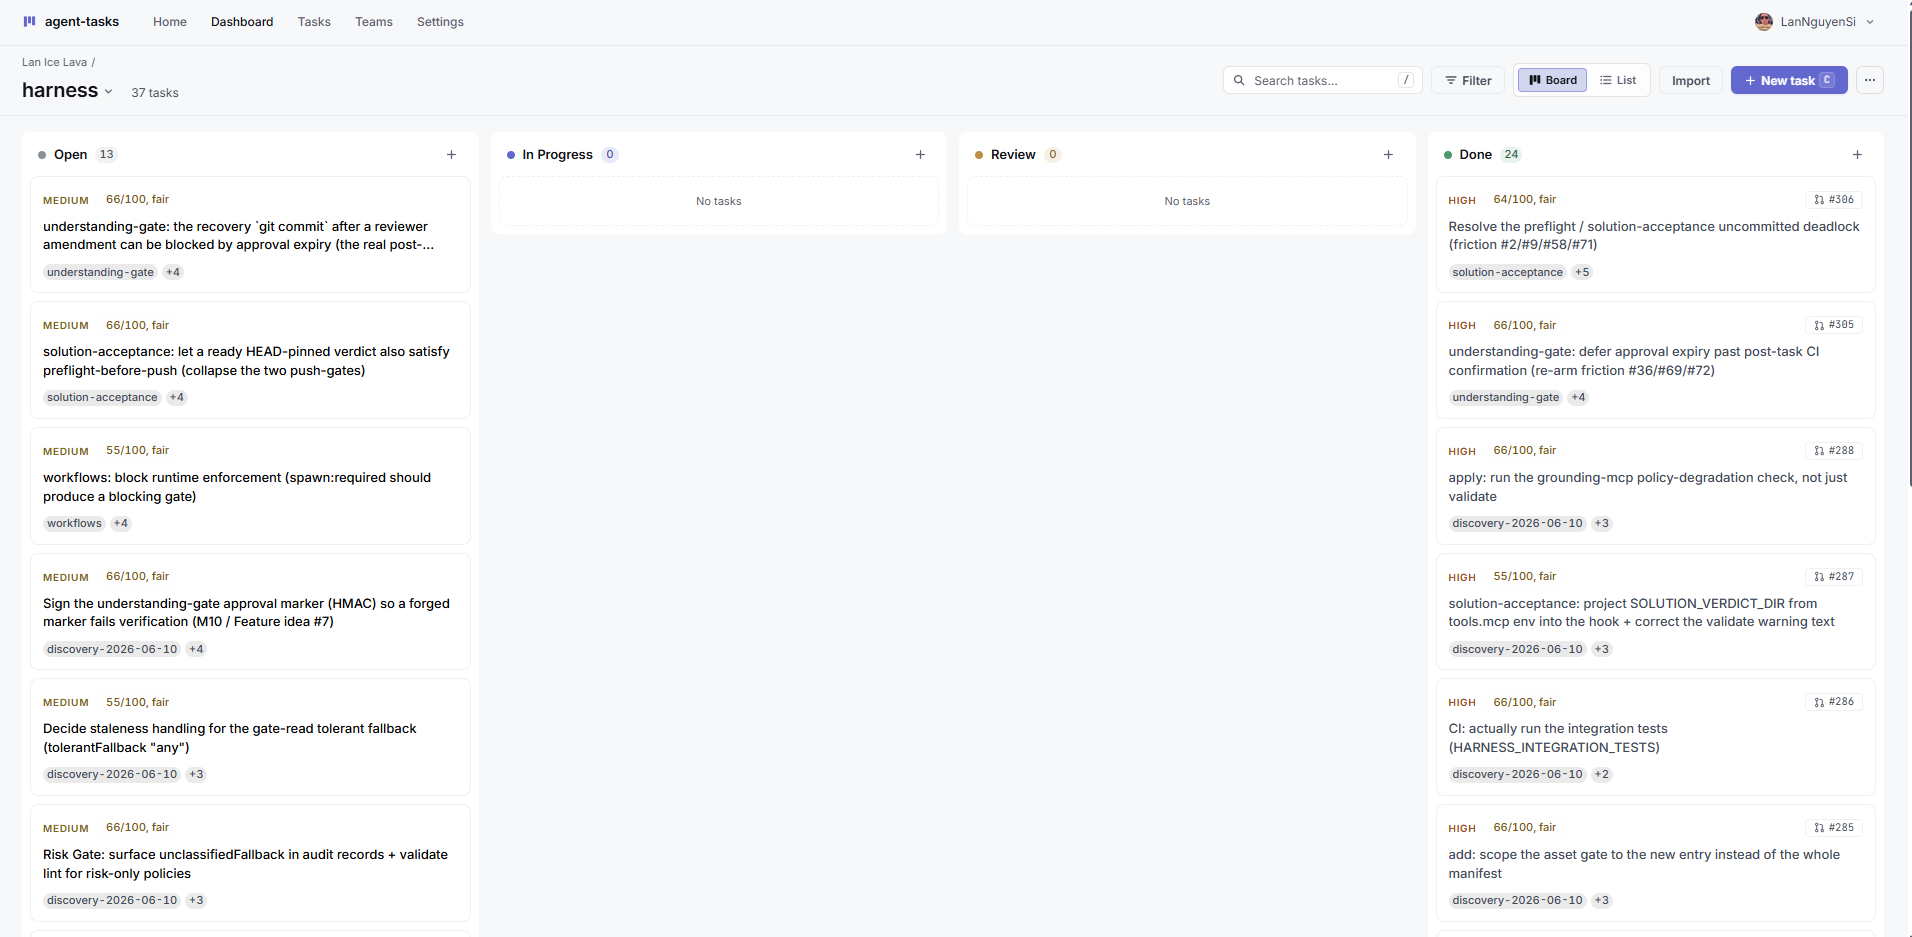
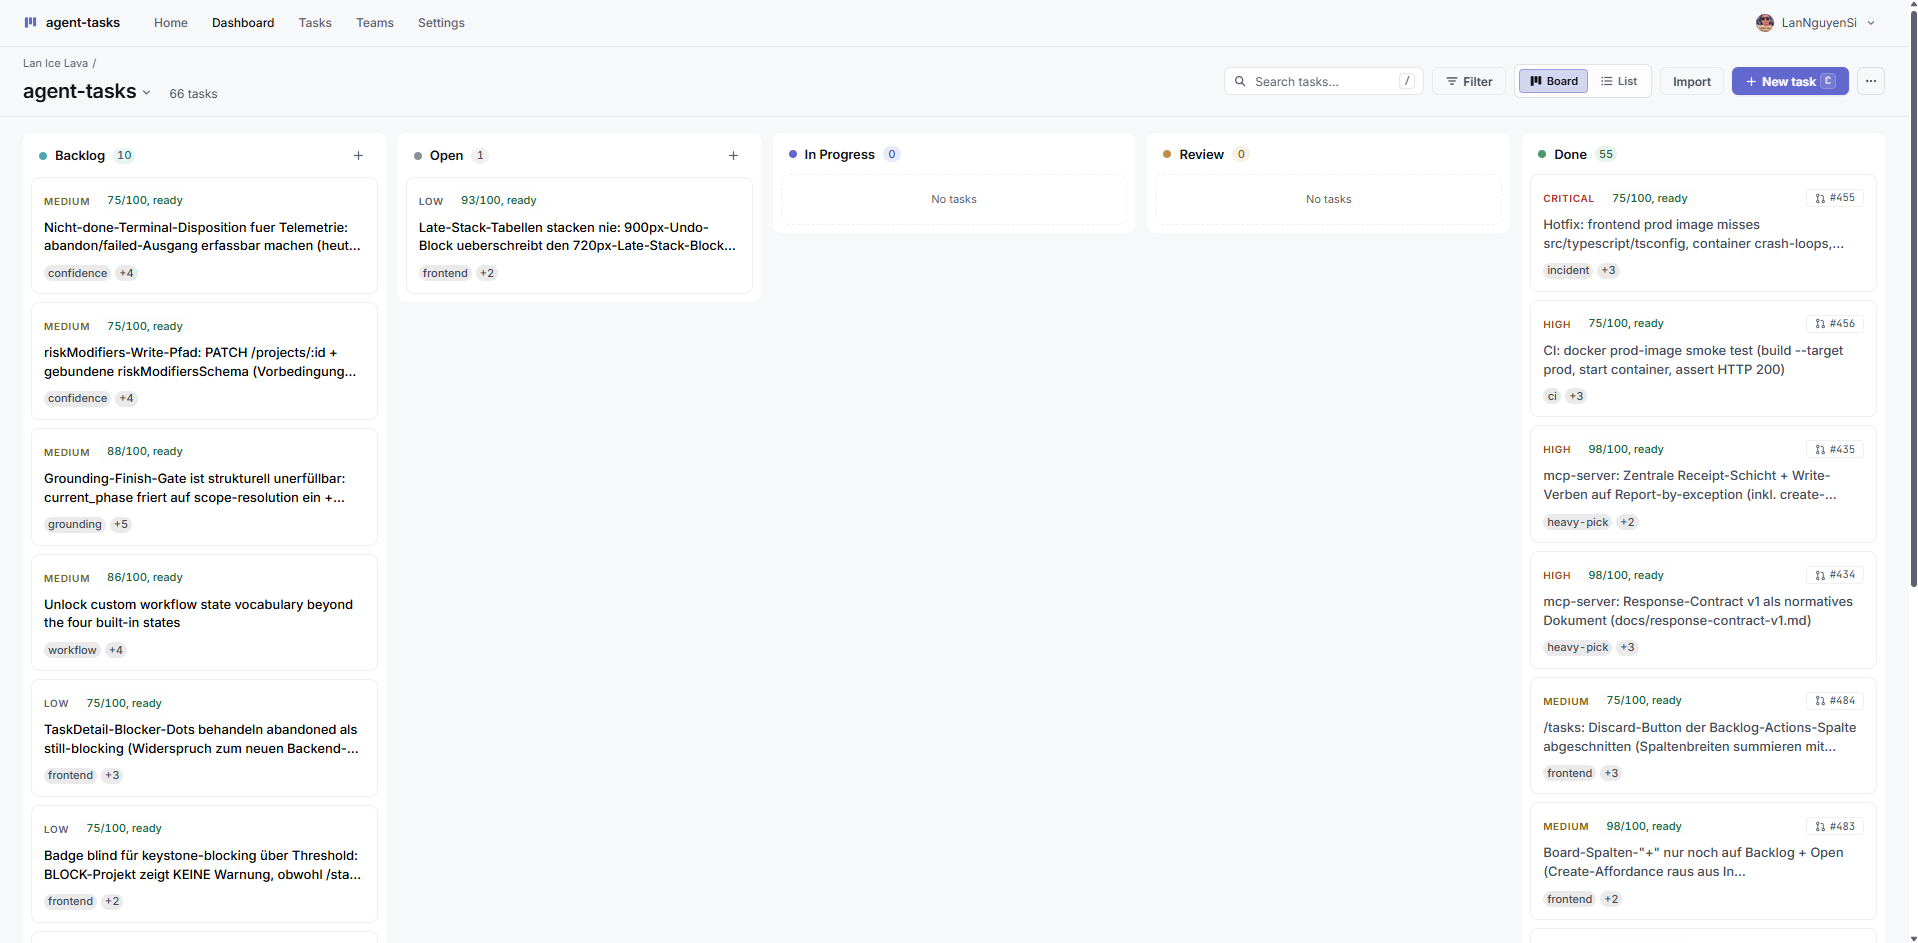
docs: refresh board screenshot and document the backlog claim boundary (#490)
The board screenshot predated the backlog status and showed a four-column
board. Replace it with a current five-column capture (Backlog through Done).

Spell out the claim boundary across the agent-facing docs: agents claim
from open only, agent-created tasks land in backlog and need explicit
human promotion. New governance section, README differentiator bullet,
notes in getting-started, agent-workflow, and the mcp-server README, plus
the missing v2 verb routes in the API overview. Also fix the stale
mcp-server/mcp-bridge versions in the repo-layout section and the now
ambiguous 'backlog visibility' wording in events.md.

diff --git a/README.md b/README.md
@@ -35,6 +35,8 @@ Once an MCP client is connected (see the table below), the cold-start path is fo
 3. **`task_pickup`.** Get the next piece of work: a pending signal, a task ready for review, or a claimable task. Returns the full task spec by default, no extra call needed.
 4. **Do the work**, then follow the receipt's `next` hint (`task_start` to claim, `task_submit_pr` after `gh pr create`, `task_finish` to advance).
 
+One boundary to know from the start: agents claim tasks in `open` status only. A task an agent creates via `task_create` lands in `backlog`, where it is invisible to `task_pickup` and rejected by `task_start` (`403 backlog_not_promoted`) until a human reviews it and promotes it to `open` on the board.
+
 The converted v2 write verbs (`task_create`, `task_respec`, `task_finish`, `task_submit_pr`, `task_note`, `task_merge`, `task_abandon`, `task_creator_abandon`, `tasks_comment`) return a small receipt by default and accept `include: ["task"]` for the full object; `task_pickup` returns the full spec and `task_start` a receipt plus a small slice; every other tool returns the raw backend body and ignores `include`. Full response shapes (receipts, `include`, errors) are in [docs/response-contract-v1.md](docs/response-contract-v1.md).
 
 ## Next steps
@@ -67,6 +69,7 @@ Real teams need enforceable rules for:
 ## Core differentiators
 
 - **Claim gates.** Confidence-scored tasks (deterministic, no LLM). Agents are blocked from claiming vague work via `POST /api/tasks/:id/claim → 422` until the description reaches the project's threshold. Humans see the same signal as a warning. Full mechanism in [docs/governance.md](docs/governance.md#confidence-scoring-claim-gate).
+- **Backlog routing.** Tasks created by agents land in `backlog`, not `open`: invisible to `task_pickup` and unclaimable (`403 backlog_not_promoted`) until a human promotes them to `open`. Agents propose work; a human decides what enters the claimable pool. See [docs/governance.md](docs/governance.md#backlog-routing-agent-created-tasks).
 - **Declarative transition preconditions.** Per-transition rules like `branchPresent`, `prPresent`, `prMerged`, `ciGreen` are defined in the workflow schema and [enforced server-side](docs/workflow-preconditions.md). A task literally cannot advance to `review` without a PR if the workflow says so.
 - **Server-side enforcement, not prompt suggestion.** Every rule is checked by the API, not by the agent's prompt. Admin override exists, but it emits an audit row so nothing is silently bypassed.
 - **Durable human-agent signal inbox.** Pull-based, no push-dependency. Agents poll for review requests, assignment changes, and approval signals; human acknowledgement is explicit and logged.
@@ -107,7 +110,7 @@ Real teams need enforceable rules for:
 
 ## Repo layout
 
-The monorepo holds five workspace packages: `backend`, `frontend`, `cli`, `mcp-server`, and `mcp-bridge`. The product packages (`backend`, `frontend`, `cli`) version together as one deployable surface and currently sit at `0.3.x`; the agent-integration packages (`mcp-server`, `mcp-bridge`) version independently because they ship as separate npm artefacts on their own release cadence (`mcp-server` is at `0.12.x`, `mcp-bridge` at `0.7.x`). The skew is intentional and does not signal a stale package. The `mcp-server` response shapes (receipts, `include`, error catalog) follow [docs/response-contract-v1.md](docs/response-contract-v1.md).
+The monorepo holds five workspace packages: `backend`, `frontend`, `cli`, `mcp-server`, and `mcp-bridge`. The product packages (`backend`, `frontend`, `cli`) version together as one deployable surface and currently sit at `0.3.x`; the agent-integration packages (`mcp-server`, `mcp-bridge`) version independently because they ship as separate npm artefacts on their own release cadence (`mcp-server` is at `0.14.x`, `mcp-bridge` at `0.8.x`). The skew is intentional and does not signal a stale package. The `mcp-server` response shapes (receipts, `include`, error catalog) follow [docs/response-contract-v1.md](docs/response-contract-v1.md).
 
 ## License
 

diff --git a/docs/governance.md b/docs/governance.md
@@ -23,6 +23,21 @@ GET /api/tasks/{id}/instructions → { ..., confidence: { score, missing, thresh
 POST /api/tasks/{id}/claim       → 422 if score < threshold (agents only, bypass with ?force=true)
 ```
 
+## Backlog routing (agent-created tasks)
+
+Agents claim tasks in `open` status only. A task created by an agent via `task_create` is hard-routed to `backlog` status (requesting any other status at create time fails with `400 backlog_routing_enforced`); human-created tasks default to `open`.
+
+While a task sits in `backlog`:
+
+- it is **invisible to `task_pickup`** and to the default `GET /api/tasks/claimable` pool,
+- `task_start` and the legacy claim route reject it with `403 backlog_not_promoted`,
+- it is an unreviewed **draft space**: `task_respec` is open to any caller (the creating agent can sharpen its own proposal, a human can edit before promoting), instead of the creator-only rule that applies from `open` onward,
+- a task that depends on it stays blocked; a `backlog` blocker counts as unresolved until promoted.
+
+Only a human moves a task out of `backlog`: **promote** to `open` (board affordance or `PATCH /api/tasks/:id { status: "open" }`, audited as `task.backlog_promoted`) when it is ready for the claimable pool, or **discard** to `abandoned` (audited as `task.backlog_discarded`). No implicit promotion happens on any other event. The creating agent may also retire its own unpromoted draft via `task_creator_abandon`.
+
+Together with the confidence gate this closes the loop on agent-generated work: agents may propose tasks at any time, but nothing an agent wrote enters the claimable pool without a human decision. Full state chart in [docs/state-machines.md](state-machines.md).
+
 ## Transition preconditions
 
 Per-transition rules like `branchPresent`, `prPresent`, `prMerged`, `ciGreen` are defined in the workflow schema and enforced server-side. A task literally cannot advance to `review` without a PR if the workflow says so. Full rule list and authoring guide: [docs/workflow-preconditions.md](workflow-preconditions.md).

diff --git a/docs/v2-api.md b/docs/v2-api.md
@@ -41,12 +41,19 @@ DELETE /api/projects/:id           # Humans only
 
 # Tasks
 GET  /api/projects/:id/tasks
-POST /api/projects/:id/tasks
-GET  /api/tasks/claimable          # Open + unclaimed
+POST /api/projects/:id/tasks       # task_create; agent creates are routed to "backlog" status
+GET  /api/tasks/claimable          # Open + unclaimed; "backlog" only via explicit status search
 GET  /api/tasks/:id
-PATCH /api/tasks/:id               # Agents: branchName/prUrl/prNumber/result only
+PATCH /api/tasks/:id               # Agents: branchName/prUrl/prNumber/result only; humans also promote backlog → open here
 DELETE /api/tasks/:id              # Humans only
-POST /api/tasks/:id/claim
+POST /api/tasks/pickup             # v2, agent-only: signals → review pool → open pool → idle
+POST /api/tasks/:id/start          # v2: claim an open task / acquire a review lock; 403 backlog_not_promoted on backlog tasks
+POST /api/tasks/:id/finish         # v2: work claim → review/done, review claim → done or back to in_progress
+POST /api/tasks/:id/merge          # v2: standalone merge verb, lands the task on done
+POST /api/tasks/:id/abandon        # v2: release held claim(s)
+POST /api/tasks/:id/creator-abandon # v2: creator retires their own unclaimed open/backlog task
+POST /api/tasks/:id/respec         # v2: spec update; any caller while in backlog, creator-only from open
+POST /api/tasks/:id/claim          # Deprecated v1; use /start
 POST /api/tasks/:id/release
 POST /api/tasks/:id/transition     # Validated against workflow if assigned
 GET  /api/tasks/:id/instructions   # Agent context: state, instructions, allowed transitions

diff --git a/docs/getting-started.md b/docs/getting-started.md
@@ -75,7 +75,7 @@ claim-to-merge flow as one tool call each, with governance state baked in:
 | `task_finish` | Move the task to `review` or `done` depending on governance mode |
 | `task_merge` | Merge the bound PR via GitHub delegation; honours self-merge gate |
 | `task_abandon` | Release the claim with a reason |
-| `task_create` | Create a new task in a project |
+| `task_create` | Create a new task in a project; agent creates land in `backlog` until a human promotes them to `open` |
 | `task_artifact_create` / `task_artifact_list` / `task_artifact_get` | Attach and read structured artifacts on a task |
 | `project_tasks` | Browse a project's tasks |
 | `signals_poll` / `signals_ack` | Pull-based signal inbox + acknowledgement |
@@ -231,7 +231,7 @@ agent-tasks tasks status <task-id> done
 
 These rules keep the system predictable for all participants:
 
-1. **Always claim before working.** Don't start work on a task you haven't claimed.
+1. **Always claim before working.** Don't start work on a task you haven't claimed. Claiming works from `open` status only: a task you created yourself starts in `backlog` and stays unclaimable (`403 backlog_not_promoted`) until a human promotes it to `open`.
 2. **Set branchName before creating a PR.** This enables webhook binding and prevents duplicate tasks.
 3. **Set prNumber and prUrl after creating a PR.** This enables the full webhook lifecycle.
 4. **Transition to review when ready.** Don't leave tasks in `in_progress` after opening a PR.

diff --git a/docs/events.md b/docs/events.md
@@ -76,7 +76,7 @@ A separate `STALE_WHEN_DONE` constant suppresses three signal types (`review_nee
 | Type | Emitted when | Recipient | Suppressed from task_pickup feed when task is done | Pushed via webhook |
 |---|---|---|---|---|
 | `review_needed` | Task enters `review` | Candidate reviewers (humans + agents minus the author) | yes | yes |
-| `task_available` | New claimable task surfaced for backlog visibility | Eligible claimants | yes | yes |
+| `task_available` | New claimable `open` task surfaced (tasks in `backlog` status emit no signal until promoted) | Eligible claimants | yes | yes |
 | `task_assigned` | Task explicitly assigned to a specific recipient | The assignee | yes | yes |
 | `changes_requested` | Reviewer transitions `review → in_progress` with comment | The task claimant | no | yes |
 | `task_approved` | Reviewer transitions `review → done` | The task claimant | no | yes |

diff --git a/docs/agent-workflow.md b/docs/agent-workflow.md
@@ -45,6 +45,13 @@ Existing tokens do not automatically gain the GitHub scopes. Re-mint a token wit
 | Merge | `task_merge` | `agent-tasks tasks merge <id>` | `POST /api/tasks/{id}/merge` |
 | Done | (auto on `task_merge`, or webhook) | (same) | (same) |
 
+> **Claim boundary.** Agents claim tasks in `open` status only. Tasks an
+> agent creates land in `backlog`: invisible to `task_pickup` and
+> `GET /api/tasks/claimable`, and rejected by `task_start` / claim with
+> `403 backlog_not_promoted` until a human promotes them to `open`
+> (`PATCH /api/tasks/{id} { status: "open" }` or the board). See
+> [docs/governance.md](governance.md#backlog-routing-agent-created-tasks).
+
 The MCP v2 verbs are the recommended surface for new agent code. They wrap
 the same REST endpoints the CLI hits, with governance state and the
 self-merge gate baked into each call. The v1 verbs (`tasks_claim`,

diff --git a/mcp-server/README.md b/mcp-server/README.md
@@ -121,6 +121,13 @@ table.
 
 The canonical agent surface. Prefer these for all new integrations.
 
+Note on the claim boundary: agents claim tasks in `open` status only.
+`task_create` routes agent-created tasks to `backlog` status, where they are
+invisible to `task_pickup` and rejected by `task_start` with
+`403 backlog_not_promoted` until a human promotes them to `open` (the
+`workflow_primer`'s "Backlog routing" section teaches the same rule
+in-session).
+
 | Tool                  | Wraps                                        |
 | --------------------- | -------------------------------------------- |
 | `task_pickup`         | `POST /api/tasks/pickup`                     |
